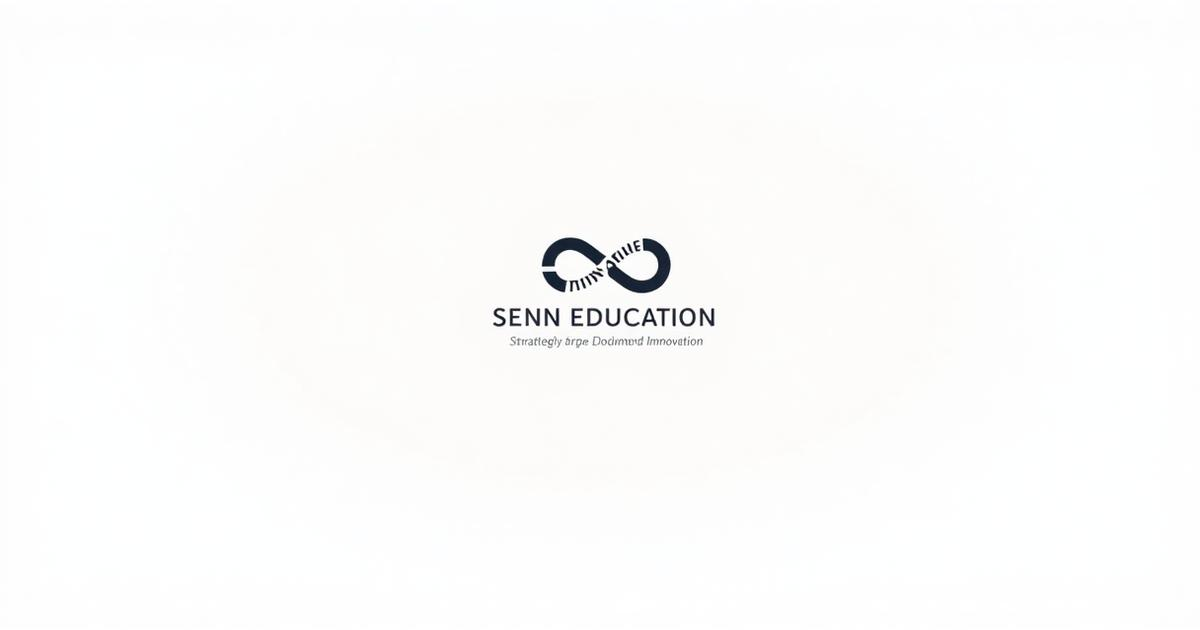
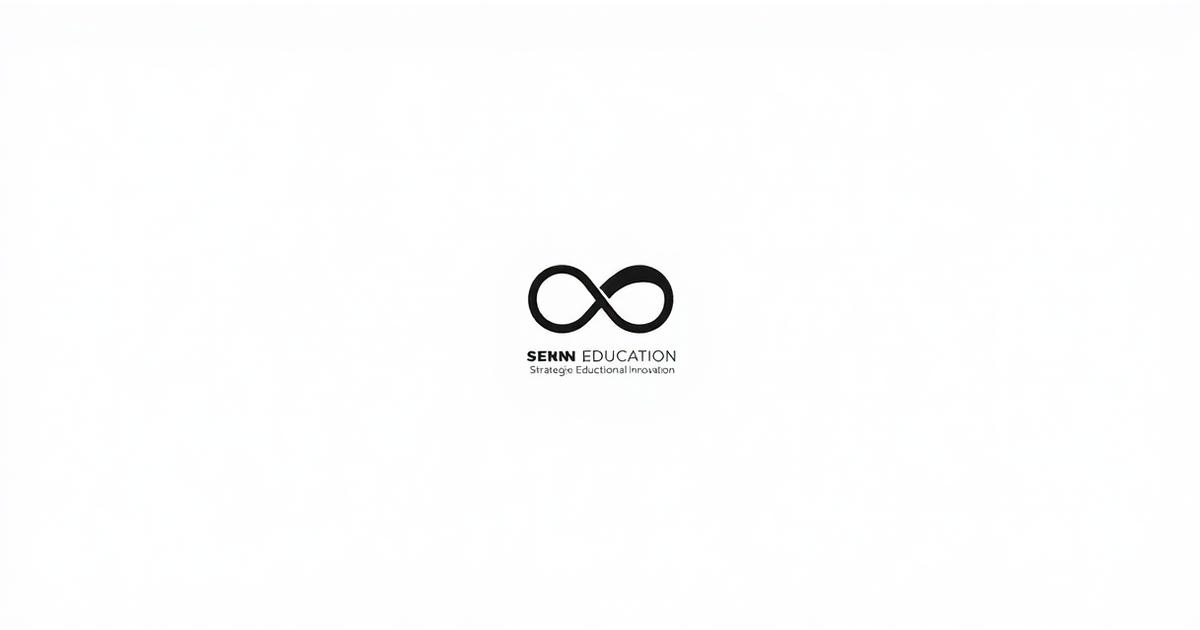
Update social sharing image

Changed region(s): [[0.4008, 0.3619, 0.6167, 0.6032]]

diff --git a/index.html b/index.html
@@ -16,11 +16,11 @@
     <meta property="og:title" content="SSENN Education Holdings | Strategic Educational Innovation" />
     <meta property="og:description" content="Building the future through strategic educational initiatives and innovative digital solutions. Discover our portfolio of companies creating meaningful impact." />
     <meta property="og:type" content="website" />
-    <meta property="og:image" content="/og-social.png?v=4" />
+    <meta property="og:image" content="/og-social.png?v=5" />
 
     <meta name="twitter:card" content="summary_large_image" />
     <meta name="twitter:site" content="@ssenn_education" />
-    <meta name="twitter:image" content="/og-social.png?v=4" />
+    <meta name="twitter:image" content="/og-social.png?v=5" />
   </head>
 
   <body>
